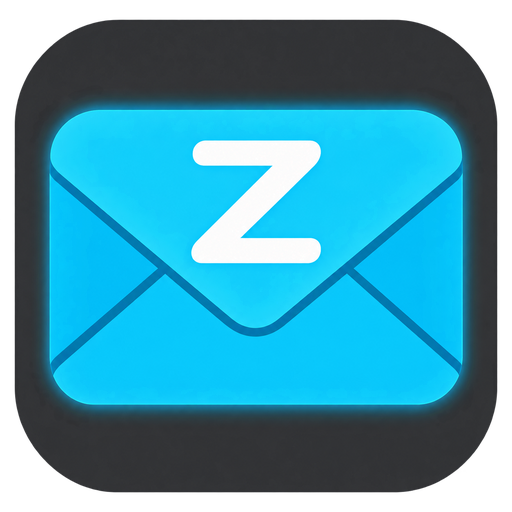
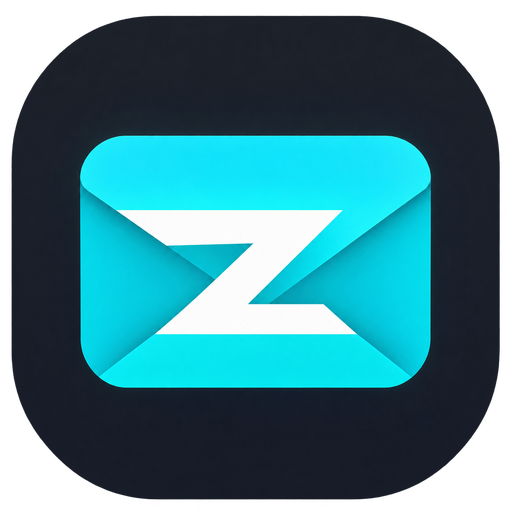
zuMail 0.1.0-alpha.7 release documentation

diff --git a/README.md b/README.md
@@ -1,20 +1,29 @@
 <p align="center"><img src="assets/app-icon.png" width="112" height="112" alt="zuMail"></p>
 <h1 align="center">zuMail</h1>
 <p align="center">Korrespondenz mit Charakter.</p>
-<p align="center"><a href="https://github.com/ZUMBYTE-AppSolution/zuMail/releases/tag/v0.1.0-alpha.6">Herunterladen</a> · <a href="docs/Anleitung.md">Anleitung</a> · <a href="CHANGELOG.md">Changelog</a> · <a href="https://www.zumbyte.de/support/">Support</a></p>
+<p align="center"><a href="https://github.com/ZUMBYTE-AppSolution/zuMail/releases/tag/v0.1.0-alpha.7">Herunterladen</a> · <a href="docs/Anleitung.md">Anleitung</a> · <a href="CHANGELOG.md">Changelog</a> · <a href="https://www.zumbyte.de/support/">Support</a></p>
 <p align="center"><img src="https://img.shields.io/badge/Windows-10%20%2F%2011%20x64-52d8f3?style=flat-square" alt="Windows x64"> <img src="https://img.shields.io/github/v/release/ZUMBYTE-AppSolution/zuMail?include_prereleases&amp;style=flat-square&amp;label=Alpha" alt="Aktuelle Alpha"></p>
 
 **zuMail** ist ein nativer Windows-Mailclient von **Zumbyte - AppSolution**. Mehrere Arbeitsbereiche, Mailkonten, Profile und Kontakte bleiben übersichtlich erreichbar. Anthrazit oder Light Mode, eigene Akzentfarbe und verschiebbare Bereiche passen die Ansicht an deinen Alltag an.
 
 | Ausgabe | Download |
 | --- | --- |
-| Windows 10 / 11 x64 · Installer | [Setup herunterladen](https://github.com/ZUMBYTE-AppSolution/zuMail/releases/download/v0.1.0-alpha.6/zuMail-0.1.0-alpha.6-win-x64-Setup.exe) |
-| Windows x64 · ohne Installation | [Portable ZIP herunterladen](https://github.com/ZUMBYTE-AppSolution/zuMail/releases/download/v0.1.0-alpha.6/zuMail-0.1.0-alpha.6-win-x64-Portable.zip) |
-| Prüfsummen | [SHA256SUMS.txt](https://github.com/ZUMBYTE-AppSolution/zuMail/releases/download/v0.1.0-alpha.6/SHA256SUMS.txt) |
+| Windows 10 / 11 x64 · Installer | [Setup herunterladen](https://github.com/ZUMBYTE-AppSolution/zuMail/releases/download/v0.1.0-alpha.7/zuMail-0.1.0-alpha.7-win-x64-Setup.exe) |
+| Windows x64 · ohne Installation | [Portable ZIP herunterladen](https://github.com/ZUMBYTE-AppSolution/zuMail/releases/download/v0.1.0-alpha.7/zuMail-0.1.0-alpha.7-win-x64-Portable.zip) |
+| Prüfsummen | [SHA256SUMS.txt](https://github.com/ZUMBYTE-AppSolution/zuMail/releases/download/v0.1.0-alpha.7/SHA256SUMS.txt) |
 
 Die benötigte .NET-Laufzeit und Chromium sind enthalten; Windows WebView2 ist nicht erforderlich. Der Installer richtet die Microsoft Visual-C++-Komponente bei Bedarf direkt über Microsoft ein; dafür sind Internet und gegebenenfalls eine Windows-Freigabe erforderlich. Im portablen Paket liegt dafür Runtime-Setup.cmd. Windows-Pakete sind derzeit unsigniert.
 
-## Aktuelles Changelog · Alpha 6
+## Aktuelles Changelog · Alpha 7
+
+- Nachrichten direkt aus der Liste auf Ordner in der Sidebar ziehen, auch mehrere ausgewählte Mails und Konversationen auf einmal. Eine bestehende Mehrfachauswahl bleibt beim Ansetzen des Ziehens erhalten; Ziehen markiert keine Mail als gelesen.
+- Serverordner führen echte IMAP-Verschiebeaktionen aus. Ziel-UIDs, verschlüsselte Speicherung, Nachrichtenliste und Ungelesen-Badges werden aktualisiert. Lokale Mails lassen sich in Serverordner hochladen.
+- Gemeinsame Standardordner unter „Alle Mailkonten“ lösen das Ziel pro Konto auf. Kontoordner nehmen ausschließlich Nachrichten desselben Kontos an. „Markiert“ und „Entwürfe“ sind keine Verschiebeziele.
+- Lokale Ordner ordnen Nachrichten lokal zu und erhalten das Original auf dem Mailserver. Bereits passende Ziele bleiben unverändert. Abgelehnte oder fehlgeschlagene Serveraktionen bleiben sichtbar; betroffene Originalmails behalten ihre bisherige Serverzuordnung.
+- Zielmarkierung und automatisches Scrollen unterstützen das Ziehen in der Sidebar. Die bestehende Sortierung über Ziehgriffe bleibt verfügbar.
+- Neues rasterbasiertes App-Icon: reduzierter Cyan-Brief mit integriertem Z auf Anthrazit, dezenter Glow, transparente Außenkante und geglättete PNG-/ICO-Größen für App und Installer.
+
+Seit Alpha 6:
 
 - Überarbeitete Mailansicht mit abgestimmten Innenabständen, ruhigen Kartenflächen und kompakter Sidebar. Dark/Light Mode und die frei wählbare Akzentfarbe bleiben verfügbar.
 - Schmale 4-Pixel-Scrollbars erscheinen nur im aktiven Bereich bei Maus, Tastaturfokus oder Ziehen. Die Inhaltsbreite bleibt beim Einblenden gleich; auch HTML-Mails verwenden schmale Scrollbars.
@@ -81,7 +90,7 @@ Die App startet ohne vorgefertigte Konten, Mails oder Kontakte. Es gibt keinen D
 
 ## Alpha-Stand und Daten
 
-**176 automatische Prüfungen** einschließlich echter Chromium-Darstellung, Skript-/Netzwerksperre, großer HTML-Nachrichten, PDF-Ausgabe, Gelesen-Zählern und gespeicherten Sidebar-Zuständen. Installer und portable Ausgabe lokal erstellt; das installierte Paket wird nochmals mit dem Prüfprogramm getestet. Prüfdaten werden nicht mit der App ausgeliefert.
+**201 automatische Prüfungen** einschließlich echter Chromium-Darstellung, Skript-/Netzwerksperre, großer HTML-Nachrichten, PDF-Ausgabe, Gelesen-Zählern und gespeicherten Sidebar-Zuständen. Installer und portable Ausgabe lokal erstellt; das installierte Paket wird nochmals mit dem Prüfprogramm getestet. Prüfdaten werden nicht mit der App ausgeliefert.
 
 Pro geöffnetem IMAP-Ordner lädt dieser Build die letzten 100 Nachrichten; die Suche verwendet geladene Nachrichten. Serverlöschungen entfernen noch keine Cachekopien. Lokale Ordner lassen die Servernachricht bestehen. Neue Kontaktverbindungen verwenden CardDAV mit optionalem Zurückschreiben und Konfliktschutz. Bereits bestehende Anbieteranmeldungen bleiben gespeichert; neue Browser-Kontaktanmeldungen werden nicht angeboten. CardDAV benötigt die direkte Adressbuch-URL.
 

diff --git a/docs/Anleitung.md b/docs/Anleitung.md
@@ -97,3 +97,10 @@ Konversationen verwenden lokal geladene Nachrichten des aktiven Arbeitsbereichs.
 **Windows-Start:** Einstellungen → App → Start & Hintergrund. Autostart bei Windows-Anmeldung registriert die aktuelle Programmdatei für dieses Benutzerkonto. Autostart minimiert ist eine unabhängige Vorgabe für den automatischen Start. Ein normales Öffnen der App bleibt sichtbar. Für die portable Ausgabe muss der Ordner dauerhaft an seinem Platz bleiben. Die Deinstallation entfernt nur einen Autostart-Eintrag, der auf genau diese Installation zeigt. Windows kann den Start verzögern oder einen Eintrag in seinen eigenen Starteinstellungen deaktivieren.
 
 **Reihenfolge:** Konten am Griff der Kopfzeile ziehen; Ordner am Griff links vom Namen. Die Markierung zeigt, ob vor oder nach dem Ziel eingefügt wird. Ordner lassen sich innerhalb ihres Kontos anordnen. Den ursprünglichen Ordneraufbau unter Einstellungen → Darstellung → Layout & Sidebar wiederherstellen.
+
+
+## Mails mit der Maus verschieben
+
+Eine Mail aus der Liste auf einen Ordnernamen in der Sidebar ziehen. Für mehrere Mails vorher Strg/Umschalt oder den Auswahlmodus verwenden und die Auswahl auf den Zielordner ziehen. Beim Ansetzen des Ziehens bleibt die Gruppe ausgewählt. Das Ziel erhält einen Akzentrahmen; am Rand scrollt die Sidebar automatisch. Esc bricht das Ziehen ab.
+
+Serverordner werden mit dem Mailserver abgeglichen; lokale Ordner erhalten das Serveroriginal und ordnen die Mail nur in zuMail lokal zu. Ein gemeinsames Ziel unter Alle Mailkonten verschiebt jede Mail in den entsprechenden Ordner ihres eigenen Kontos. Für einen konkreten Kontoordner ausschließlich Mails dieses Kontos auswählen. Markiert und Entwürfe sind keine Verschiebeziele. Eine aktive Serververbindung ist erforderlich; fehlgeschlagene Einzelaktionen werden unten angezeigt und verändern die betroffenen Originale nicht.

diff --git a/CHANGELOG.md b/CHANGELOG.md
@@ -1,5 +1,16 @@
 # Changelog
 
+## 0.1.0-alpha.7
+
+- Nachrichten direkt aus der Liste auf Ordner in der Sidebar ziehen, auch mehrere ausgewählte Mails und Konversationen auf einmal. Eine bestehende Mehrfachauswahl bleibt beim Ansetzen des Ziehens erhalten; Ziehen markiert keine Mail als gelesen.
+- Serverordner führen echte IMAP-Verschiebeaktionen aus. Ziel-UIDs, verschlüsselte Speicherung, Nachrichtenliste und Ungelesen-Badges werden aktualisiert. Lokale Mails lassen sich in Serverordner hochladen.
+- Gemeinsame Standardordner unter „Alle Mailkonten“ lösen das Ziel pro Konto auf. Kontoordner nehmen ausschließlich Nachrichten desselben Kontos an. „Markiert“ und „Entwürfe“ sind keine Verschiebeziele.
+- Lokale Ordner ordnen Nachrichten lokal zu und erhalten das Original auf dem Mailserver. Bereits passende Ziele bleiben unverändert. Abgelehnte oder fehlgeschlagene Serveraktionen bleiben sichtbar; betroffene Originalmails behalten ihre bisherige Serverzuordnung.
+- Zielmarkierung und automatisches Scrollen unterstützen das Ziehen in der Sidebar. Die bestehende Sortierung über Ziehgriffe bleibt verfügbar.
+- Neues rasterbasiertes App-Icon: reduzierter Cyan-Brief mit integriertem Z auf Anthrazit, dezenter Glow, transparente Außenkante und geglättete PNG-/ICO-Größen für App und Installer.
+
+201 automatische Prüfungen, einschließlich nativer WPF-Drop-Ereignisse, IMAP-MOVE, Mehrfachauswahl, erneuter Synchronisierung, lokalen Zielen, Upload und Verbindungsfehlern. Installer und portable Ausgabe geprüft. Neue Profile starten leer.
+
 ## 0.1.0-alpha.6
 
 - Überarbeitete Mailansicht mit abgestimmten Innenabständen, ruhigen Kartenflächen und kompakter Sidebar. Dark/Light Mode und die frei wählbare Akzentfarbe bleiben verfügbar.

diff --git a/docs/Pruefung.md b/docs/Pruefung.md
@@ -1,6 +1,8 @@
-# Prüfung · 0.1.0-alpha.6
+# Prüfung · 0.1.0-alpha.7
 
-- 176 automatische Prüfungen erfolgreich; isolierte Protokollserver und synthetische Postfächer, keine echten Konten verändert.
+- 201 automatische Prüfungen erfolgreich; isolierte Protokollserver und synthetische Postfächer, keine echten Konten verändert.
+- Native WPF-Drop-Ereignisse und Auswahl beim Ansetzen des Ziehens; tatsächliches IMAP MOVE für mehrere Nachrichten, korrekte Ziel-UIDs, keine Duplikate nach erneuter Synchronisierung, lokale Zuordnung und Upload importierter Mails. Abgelehnte Einzelaktionen und Verbindungsfehler erhalten betroffene Originale. Kein automatisierter freihändiger Maus-Parcours.
+- Neues Raster-Icon in PNG-Größen von 16 bis 1024 Pixeln und mehrstufigem ICO; transparente Außenkante und Darstellung bei kleiner Auflösung visuell geprüft.
 - Konversationsketten mit gesendeten Antworten, fehlenden Eltern, Zyklen, gleichen Betreffzeilen und getrennten Arbeitsbereichen. Einmalige Bestandsindexierung erhält die originalen verschlüsselten MIME-Dateien.
 - Tatsächliche WPF-Verlaufsauswahl, Abschalten in den Einstellungen, sofortige Zähleränderung je geöffneter Nachricht und fette Pill-Badges.
 - Arbeitsbereichswechsel über das tatsächliche Dropdown mit Erstellen-Eintrag, schmale ausgeblendete Scrollbars und Scrolloffset-Synchronisierung des Overlay-Templates.
